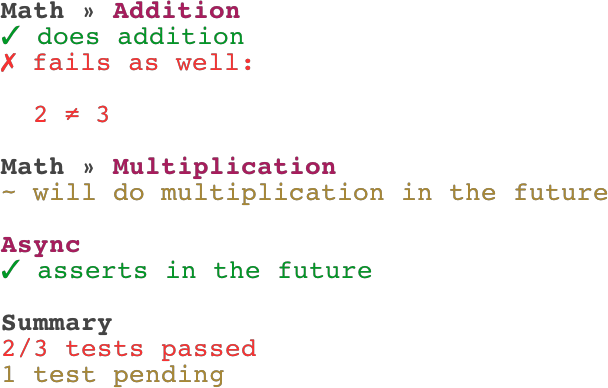
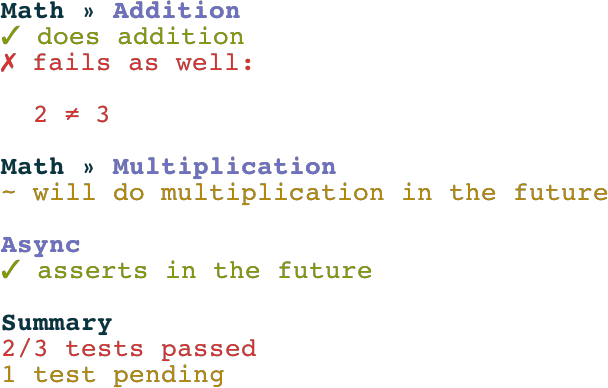
Even better, based on solarized light

diff --git a/tools/styles.css b/tools/styles.css
@@ -1,16 +1,17 @@
 body {
-  color: #444;
+  color: #073642;
 }
 .reset     {color: inherit;}
 .bg-reset  {background-color: white;}
 .black     {color: inherit;}
-.red       {color: #f93232;}
-.green     {color: #009926;}
-.yellow    {color: #a98833 ;}
-.blue      {color: #0086b3;}
-.purple    {color: #a71d5d;}
-.cyan      {color: #795da3;}
+.red       {color: #dc322f;}
+.green     {color: #859900;}
+.yellow    {color: #b58900 ;}
+.blue      {color: #268bd2;}
+.purple    {color: #6c71c4;}
+.cyan      {color: #2aa198;}
 .white     {color: #668934;}
+
 .bg-black  {background-color: black;}
 .bg-red    {background-color: red;}
 .bg-green  {background-color: green;}
